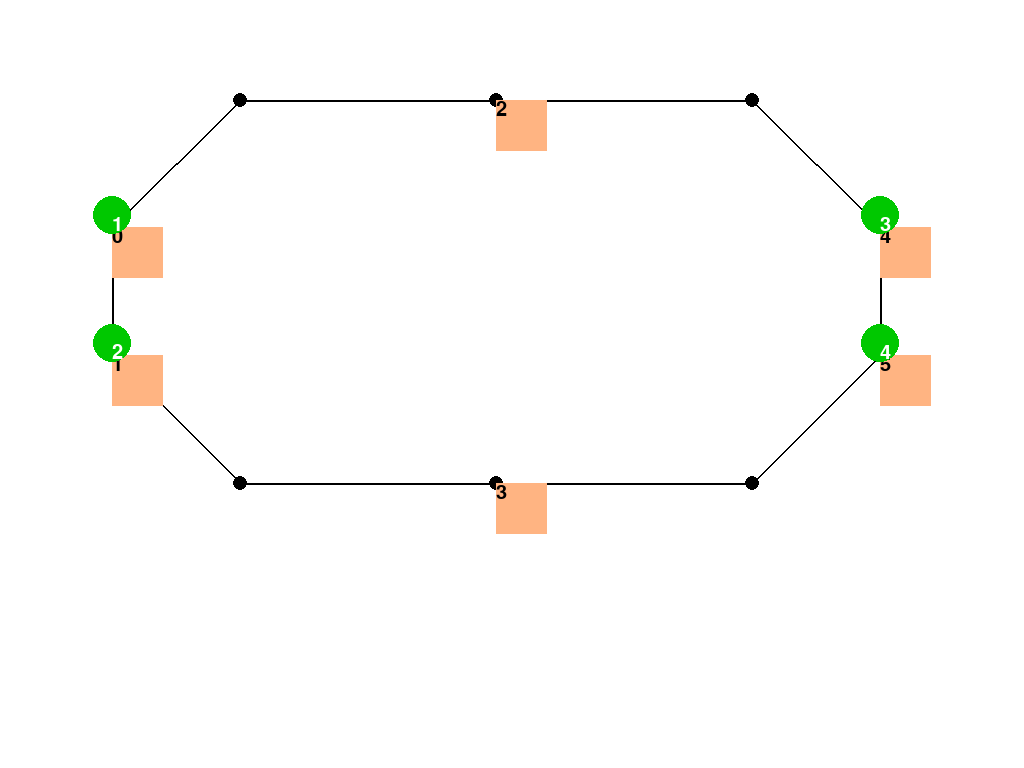
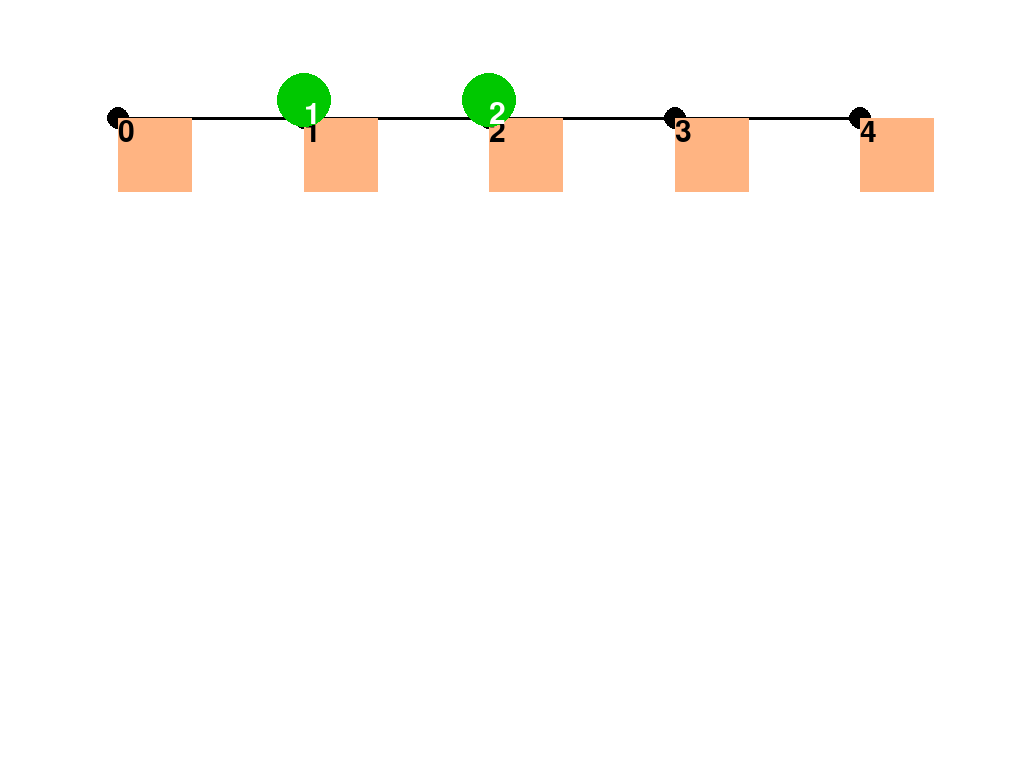
feat: 修改案例为流水线和环形

diff --git a/frontend/src/views/cases/CasesManage.vue b/frontend/src/views/cases/CasesManage.vue
@@ -37,13 +37,13 @@
                     <template #header>
                       <div>
                         <el-row>
-                          <el-col :span="12">
-                            <el-tag>Factory Name {{ config.buttonText }}</el-tag>
+                          <el-col :span="9">
+                            <el-tag>{{config.factoryName}}</el-tag>
                           </el-col>
                           <el-col :span="2">
 
                           </el-col>
-                          <el-col :span="10">
+                          <el-col :span="13">
                             <el-button
                                 type="success"
                                 icon="el-icon-download"
@@ -51,7 +51,7 @@
                                 @click="getStandardConfig(config.buttonParam)"
                                 style="width: 100%;"
                             >
-                              {{ config.buttonText }}
+                              {{config.buttonText}}
                             </el-button>
                           </el-col>
                         </el-row>
@@ -64,14 +64,14 @@
                         :column="4"
                         border
                     >
-                      <el-descriptions-item label="MachineNumber">6</el-descriptions-item>
-                      <el-descriptions-item label="AGVNumber">4</el-descriptions-item>
-                      <el-descriptions-item label="FactorySize" :span="2">30*20</el-descriptions-item>
+                      <el-descriptions-item label="MachineNumber">{{config.machineNumber}}</el-descriptions-item>
+                      <el-descriptions-item label="AGVNumber">{{config.agvNumber}}</el-descriptions-item>
+                      <el-descriptions-item label="FactorySize" :span="2">{{config.factorySize}}</el-descriptions-item>
                       <el-descriptions-item label="FactoryInfo">
-                        <el-tag size="small">Circle</el-tag>
+                        <el-tag size="small">{{config.factoryInfo}}</el-tag>
                       </el-descriptions-item>
-                      <el-descriptions-item label="description">
-                        Single Pipeline Job.
+                      <el-descriptions-item label="Description">
+                        {{config.description}}
                       </el-descriptions-item>
                     </el-descriptions>
                   </el-card>
@@ -133,12 +133,28 @@ export default {
       {
         mapParam: 'map1', // 用于生成图片URL的参数
         buttonText: 'Get Standard Config 1',
-        buttonParam: {type: 'custom_config_1'} // 传给下载函数的参数
+        buttonParam: {type: 'custom_config_1'}, // 传给下载函数的参数
+
+        factoryName: 'Standard Config 1',
+
+        machineNumber: 5,
+        agvNumber: 2,
+        factorySize: '30*20',
+        factoryInfo: 'Pipeline',
+        description: 'Single Pipeline Job.'
       },
       {
         mapParam: 'map2',
         buttonText: 'Get Standard Config 2',
-        buttonParam: {type: 'custom_config_2'}
+        buttonParam: {type: 'custom_config_2'},
+
+        factoryName: 'Standard Config 2',
+
+        machineNumber: 6,
+        agvNumber: 4,
+        factorySize: '30*20',
+        factoryInfo: 'Cycle',
+        description: 'Single Cycle Job.'
       },
       // 可以添加更多配置
     ]);

diff --git a/backend/backend_server.py b/backend/backend_server.py
@@ -301,11 +301,11 @@ class APIHandler:
     async def handle_cases_config(self, type: str):
         # 获取案例配置
         if type == "custom_config_1":
-            file_name = "template_config_set.zip"
+            file_name = "pipeline_config_set.zip"
         elif type == "custom_config_2":
-            file_name = "template_config_set2.zip"
-        else:
             file_name = "template_config_set.zip"
+        else:
+            return Response(content="Config file not found.", media_type="text/plain", status_code=404)
 
         # 生成 zip 压缩包
         zip_path = os.path.join(file_service.get_config_dir(), file_name)
